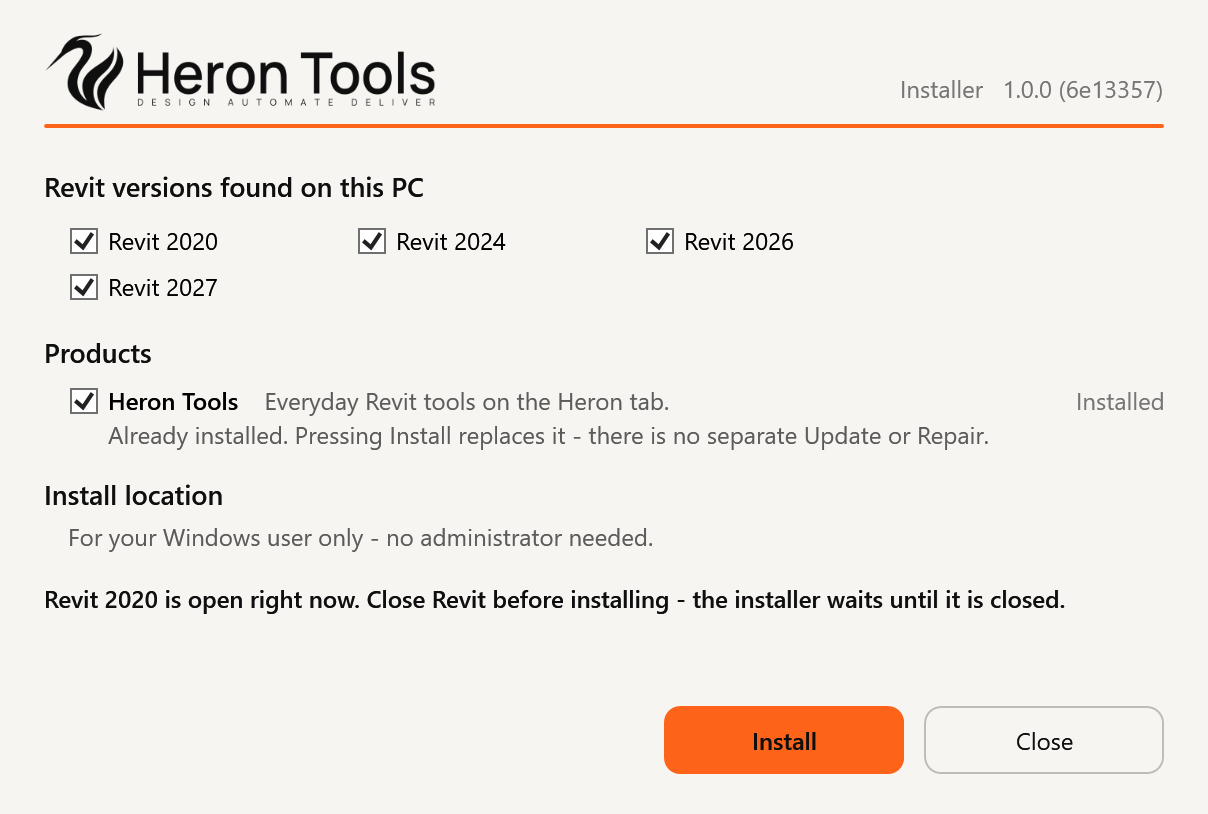
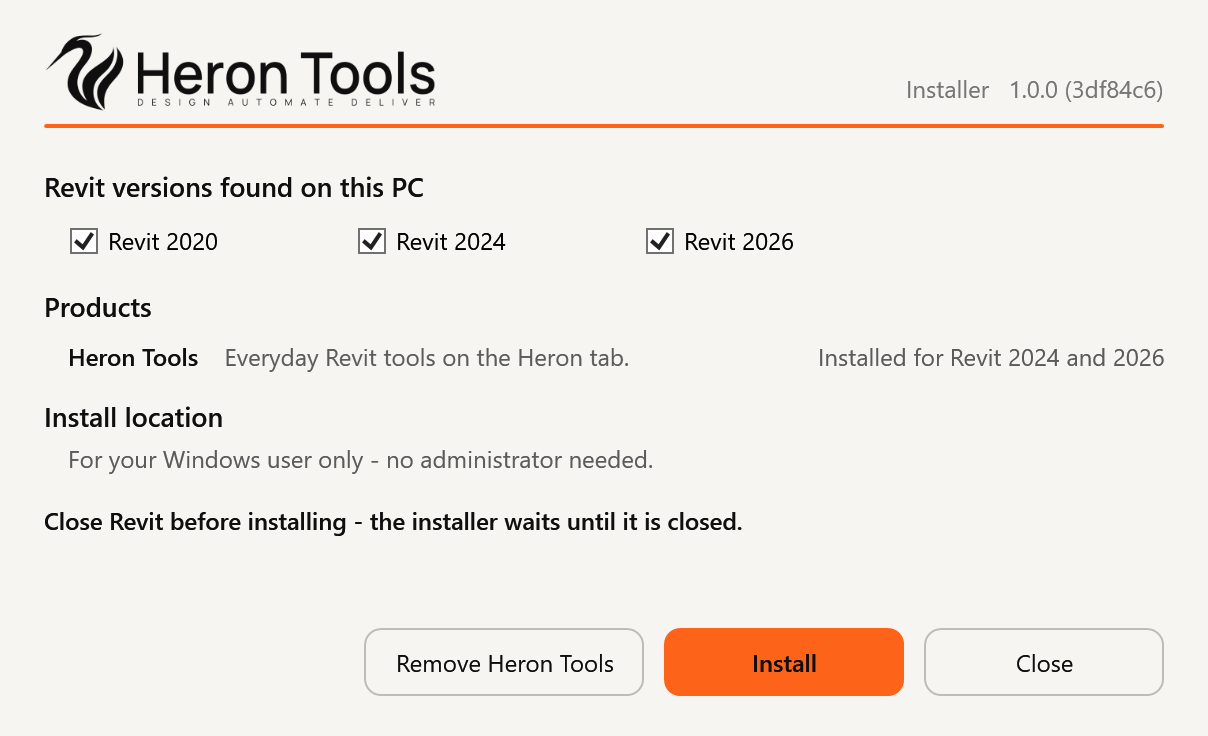
Installer like Heron AI's newest: no tick box, a Remove Heron Tools button
Heron AI's installer changed on 2026-11-08 (its pull request 821), half an
hour after this installer copied its look. With one product a tick box
offers no choice and one trap: unticking it turned Install into a removal.
Now, as there:
- Heron Tools is drawn as words only, no tick box; Install installs or
  replaces it in the ticked Revit versions and never removes anything.
- A quiet "Remove Heron Tools" button, drawn only while Heron Tools is on
  this PC, takes it out of every Revit it is in, after a Yes/No question
  with No picked first. One version only stays possible with
  /uninstall /years <year>.
- "Already installed - Install replaces it" moves to the hover; a version
  not installed shows a blank instead of "--".
Same look, colours, waiting for Revit and silent switches as before. No
Heron AI code was copied; it was read only.

Tested on test folders from PowerShell: window Remove -> No (nothing
changed), Remove -> Yes (removed from 2020, 2024 and 2026, button hides),
Install with nothing ticked, Install 2020 only, no pop-up after success;
/install, /uninstall /years, /status, an unknown switch. NOT RUN: waiting
while a real Revit is open, and an install on the owner's real Revit.

diff --git a/installer/HeronTools.Installer/InstallerWindow.cs b/installer/HeronTools.Installer/InstallerWindow.cs
@@ -5,16 +5,19 @@
 // Heron-Layer:  platform
 // See docs/metadata-standard.md
 
-// The installer window - one window, one list, two buttons - laid out like the Heron AI installer (no code
-// shared): the Heron Tools logo at the top with "Installer <version>" on the right, over a line of the
-// brand's orange; Mist for the page, Ink for the words; short labels; the orange Install and a quiet Close;
-// the heron as the window's icon.
+// The installer window - one window, one list - laid out like the Heron AI installer (no code shared): the
+// Heron Tools logo at the top with "Installer <version>" on the right, over a line of the brand's orange;
+// Mist for the page, Ink for the words; short labels; the orange Install, a quiet Close, and a quiet
+// Remove Heron Tools while it is installed; the heron as the window's icon.
 //
-// HOW IT WORKS, the Heron AI way:
-//   - "Revit versions found on this PC": tick the versions to work on (all found ones start ticked).
-//   - "Products": Heron Tools, with what is installed on the right. Ticked = install it (or replace it) in
-//     the ticked versions. Unticked while installed = REMOVE it from the ticked versions, after a yes.
-//   - Pressing Install while one of those Revit versions is open WAITS, says so, and carries on by itself
+// HOW IT WORKS, the Heron AI way (its installer since 2026-11-08, Heron AI pull request 821):
+//   - "Revit versions found on this PC": tick the versions to install into (all found ones start ticked).
+//   - "Products": Heron Tools and what is installed on the right - words only, NO tick box. With one
+//     product a box offers no choice and one trap: unticking it used to turn Install into a removal.
+//   - Install installs (or replaces) Heron Tools in the ticked versions. It never removes anything.
+//   - "Remove Heron Tools", quiet like Close and drawn only while Heron Tools is on this PC, takes it out of
+//     every Revit it is in, after a Yes/No question with No first.
+//   - Install or Remove while one of those Revit versions is open WAITS, says so, and carries on by itself
 //     once it is closed. It never closes Revit.
 // Every install decision is the engine's (InstallEngine); this window only draws and asks.
 
@@ -41,6 +44,7 @@ namespace HeronTools.Installer
         private static Color At(Color colour, byte alpha) => Color.FromArgb(alpha, colour.R, colour.G, colour.B);
 
         private const string CloseRevitFirst = "Close Revit before installing - the installer waits until it is closed.";
+        private const string Replaces = "Already installed. Pressing Install replaces it - there is no separate Update or Repair.";
 
         private readonly Payload _payload;
         private readonly InstallEngine _engine;
@@ -49,12 +53,12 @@ namespace HeronTools.Installer
 
         private readonly WrapPanel _releaseList = new WrapPanel { Margin = new Thickness(12, 4, 0, 0) };
         private readonly TextBlock _releaseNote;
-        private readonly CheckBox _productTick;
+        private readonly TextBlock _productWords;
         private readonly TextBlock _productState;
-        private readonly TextBlock _productNote;
         private readonly TextBlock _closeRevitFirst;
         private readonly TextBlock _report;
         private readonly Button _install;
+        private readonly Button _remove;
         private DispatcherTimer _waiting;
 
         public InstallerWindow(Payload payload, InstallEngine engine)
@@ -86,28 +90,24 @@ namespace HeronTools.Installer
             var product = new Grid { Margin = new Thickness(12, 4, 0, 0) };
             product.ColumnDefinitions.Add(new ColumnDefinition { Width = new GridLength(1, GridUnitType.Star) });
             product.ColumnDefinitions.Add(new ColumnDefinition { Width = GridLength.Auto });
-            var label = new TextBlock();
-            label.Inlines.Add(new System.Windows.Documents.Run("Heron Tools") { FontWeight = FontWeights.SemiBold });
-            label.Inlines.Add(new System.Windows.Documents.Run("    Everyday Revit tools on the Heron tab.")
+            // ONE PRODUCT, NO TICK BOX - the words alone; "Already installed..." is on hover, as in Heron AI.
+            _productWords = new TextBlock { TextWrapping = TextWrapping.Wrap, Margin = new Thickness(0, 1, 0, 1) };
+            _productWords.Inlines.Add(new System.Windows.Documents.Run("Heron Tools") { FontWeight = FontWeights.SemiBold });
+            _productWords.Inlines.Add(new System.Windows.Documents.Run("    Everyday Revit tools on the Heron tab.")
             {
                 Foreground = new SolidColorBrush(At(Ink, 0xAB)),
             });
-            _productTick = new CheckBox { Content = label, IsChecked = true, VerticalContentAlignment = VerticalAlignment.Center };
-            _productTick.Checked += (s, e) => DrawProduct();
-            _productTick.Unchecked += (s, e) => DrawProduct();
-            product.Children.Add(_productTick);
+            product.Children.Add(_productWords);
             _productState = new TextBlock
             {
-                Foreground = new SolidColorBrush(At(Ink, 0x8C)),
+                Foreground = new SolidColorBrush(At(Ink, 0xAB)),
                 VerticalAlignment = VerticalAlignment.Center,
+                HorizontalAlignment = HorizontalAlignment.Right,
                 Margin = new Thickness(12, 0, 0, 0),
             };
             Grid.SetColumn(_productState, 1);
             product.Children.Add(_productState);
             page.Children.Add(product);
-            _productNote = Quiet("");
-            _productNote.Margin = new Thickness(32, 1, 0, 1);
-            page.Children.Add(_productNote);
 
             // ONE LINE, with the folder on hover - short words, like the Heron AI installer.
             page.Children.Add(Heading("Install location"));
@@ -134,6 +134,20 @@ namespace HeronTools.Installer
             };
             _install.Click += (s, e) => StartInstall();
 
+            // REMOVE HERON TOOLS, quiet like Close - drawn only while Heron Tools is on this PC (DrawProduct).
+            _remove = new Button
+            {
+                Content = "Remove Heron Tools",
+                Width = 140,
+                Height = 34,
+                Margin = new Thickness(0, 0, 10, 0),
+                Foreground = new SolidColorBrush(Ink),
+                Cursor = Cursors.Hand,
+                ToolTip = "Takes Heron Tools out of every Revit on this PC. It asks first.",
+                Template = ButtonTemplate(Colors.Transparent, At(Ink, 0x0F), At(Ink, 0x40)),
+            };
+            _remove.Click += (s, e) => StartRemove();
+
             var close = new Button
             {
                 Content = "Close",
@@ -152,6 +166,7 @@ namespace HeronTools.Installer
                 HorizontalAlignment = HorizontalAlignment.Right,
                 Margin = new Thickness(0, 18, 0, 0),
             };
+            buttons.Children.Add(_remove);
             buttons.Children.Add(_install);
             buttons.Children.Add(close);
             page.Children.Add(buttons);
@@ -183,9 +198,7 @@ namespace HeronTools.Installer
                     VerticalContentAlignment = VerticalAlignment.Center,
                 };
                 if (!year.RevitInstalled)
-                    tick.ToolTip = $"Revit {year.Year} is not on this PC any more, but Heron Tools still is - untick Heron Tools to remove it.";
-                tick.Checked += (s, e) => DrawProduct();
-                tick.Unchecked += (s, e) => DrawProduct();
+                    tick.ToolTip = $"Revit {year.Year} is not on this PC any more, but Heron Tools still is - Remove Heron Tools takes it out.";
                 _releaseTicks[year.Year] = tick;
                 _releaseList.Children.Add(tick);
             }
@@ -202,33 +215,26 @@ namespace HeronTools.Installer
             DrawCloseRevitFirst();
         }
 
-        /// <summary>The product row: what is installed now (right), and what Install will do (under it).</summary>
+        /// <summary>The product row (what is installed now, on the right) and the buttons.</summary>
         private void DrawProduct()
         {
             List<YearState> installed = _years.Where(y => y.Installed != null).ToList();
-            List<int> chosen = Chosen();
 
             if (installed.Count == 0)
-                _productState.Text = "--";
+                _productState.Text = "";
             else if (_years.All(y => y.Installed != null))
                 _productState.Text = "Installed";
             else
                 _productState.Text = "Installed for Revit " + Join(installed.Select(y => y.Year));
 
-            bool ticked = _productTick.IsChecked == true;
-            List<int> removing = installed.Where(y => chosen.Contains(y.Year)).Select(y => y.Year).ToList();
-            if (ticked && installed.Any(y => chosen.Contains(y.Year)))
-                _productNote.Text = "Already installed. Pressing Install replaces it - there is no separate Update or Repair.";
-            else if (!ticked && removing.Count > 0)
-                _productNote.Text = "Unticked: pressing Install REMOVES it from Revit " + Join(removing) + ".";
-            else if (!ticked)
-                _productNote.Text = "Not ticked, so Install does nothing.";
-            else
-                _productNote.Text = "";
-            _productNote.Foreground = new SolidColorBrush(!ticked && removing.Count > 0 ? Accent : At(Ink, 0xAB));
-            _productNote.Visibility = _productNote.Text.Length == 0 ? Visibility.Collapsed : Visibility.Visible;
+            string hover = installed.Count > 0 ? Replaces : null;
+            _productWords.ToolTip = hover;
+            _productState.ToolTip = hover;
 
-            _install.IsEnabled = _payload != null && _years.Count > 0 && (_waiting == null || !_waiting.IsEnabled);
+            bool waiting = _waiting != null && _waiting.IsEnabled;
+            _install.IsEnabled = _payload != null && _years.Count > 0 && !waiting;
+            _remove.Visibility = installed.Count > 0 ? Visibility.Visible : Visibility.Collapsed;
+            _remove.IsEnabled = !waiting;
         }
 
         /// <summary>The bold line above the report, naming any Revit open right now.</summary>
@@ -252,54 +258,63 @@ namespace HeronTools.Installer
         {
             _waiting?.Stop();
             List<int> chosen = Chosen();
-            bool ticked = _productTick.IsChecked == true;
-            List<int> install = ticked ? chosen : new List<int>();
-            List<int> remove = ticked ? new List<int>() : _years.Where(y => y.Installed != null && chosen.Contains(y.Year)).Select(y => y.Year).ToList();
-
-            if (install.Count == 0 && remove.Count == 0)
+            if (chosen.Count == 0)
             {
-                _report.Text = chosen.Count == 0
-                    ? "No Revit version is ticked, so nothing was installed."
-                    : "Heron Tools is not ticked and not installed there, so there is nothing to do.";
+                _report.Text = "No Revit version is ticked, so there is nowhere to install to.";
+                return;
+            }
+            WaitThenRun(chosen, new List<int>(), chosen);
+        }
+
+        /// <summary>Remove Heron Tools: out of every Revit it is in, after a Yes/No question with No first.</summary>
+        private void StartRemove()
+        {
+            _waiting?.Stop();
+            List<int> remove = _years.Where(y => y.Installed != null).Select(y => y.Year).ToList();
+            if (remove.Count == 0)
+            {
+                _report.Text = "Heron Tools is not on this PC, so there is nothing to remove.";
                 return;
             }
 
-            if (remove.Count > 0)
+            MessageBoxResult answer = MessageBox.Show(this,
+                "This will REMOVE 'Heron Tools' from Revit " + Join(remove) + "." + Environment.NewLine + Environment.NewLine +
+                "Restart Revit afterwards to unload it." + Environment.NewLine + Environment.NewLine +
+                "Your models are not touched.",
+                "Heron Tools Installer", MessageBoxButton.YesNo, MessageBoxImage.Warning, MessageBoxResult.No);
+            if (answer != MessageBoxResult.Yes)
             {
-                MessageBoxResult answer = MessageBox.Show(this,
-                    "This will REMOVE 'Heron Tools' from Revit " + Join(remove) + "." + Environment.NewLine + Environment.NewLine +
-                    "Restart Revit afterwards to unload it." + Environment.NewLine + Environment.NewLine +
-                    "Your models are not touched, and the copy kept for going back stays.",
-                    "Heron Tools Installer", MessageBoxButton.OKCancel, MessageBoxImage.Question, MessageBoxResult.Cancel);
-                if (answer != MessageBoxResult.OK)
-                {
-                    _report.Text = "Nothing was removed.";
-                    return;
-                }
+                _report.Text = "Nothing was changed.";
+                return;
             }
 
-            // Wait - never work around it - while a Revit that is involved is open.
+            WaitThenRun(new List<int>(), remove, Chosen());
+        }
+
+        /// <summary>Runs now, or - never working around it - waits while a Revit that is involved is open.</summary>
+        private void WaitThenRun(List<int> install, List<int> remove, List<int> chosen)
+        {
             List<int> involved = install.Concat(remove).ToList();
             string blocking = Blocking(involved);
-            if (blocking != null)
+            if (blocking == null)
             {
-                _report.Text = blocking + " Close it and this will carry on by itself - nothing has been changed yet.";
-                _waiting = new DispatcherTimer { Interval = TimeSpan.FromSeconds(1.5) };
-                _waiting.Tick += (s, e) =>
-                {
-                    DrawCloseRevitFirst();
-                    if (Blocking(involved) == null)
-                    {
-                        _waiting.Stop();
-                        Run(install, remove, chosen);
-                    }
-                };
-                _waiting.Start();
-                DrawProduct();
+                Run(install, remove, chosen);
                 return;
             }
 
-            Run(install, remove, chosen);
+            _report.Text = blocking + " Close it and this will carry on by itself - nothing has been changed yet.";
+            _waiting = new DispatcherTimer { Interval = TimeSpan.FromSeconds(1.5) };
+            _waiting.Tick += (s, e) =>
+            {
+                DrawCloseRevitFirst();
+                if (Blocking(involved) == null)
+                {
+                    _waiting.Stop();
+                    Run(install, remove, chosen);
+                }
+            };
+            _waiting.Start();
+            DrawProduct();
         }
 
         /// <summary>Which open Revit stops this run, said in a sentence; null when none does.</summary>
@@ -315,6 +330,7 @@ namespace HeronTools.Installer
         private void Run(List<int> install, List<int> remove, List<int> chosen)
         {
             _install.IsEnabled = false;
+            _remove.IsEnabled = false;
             Cursor = Cursors.Wait;
             var lines = new List<string>();
             try
@@ -324,8 +340,8 @@ namespace HeronTools.Installer
                 foreach (int year in remove)
                     lines.Add(_engine.Remove(year).Message);
                 if (remove.Count > 0)
-                    lines.Add("Restart Revit so the removed product stops loading.");
-                foreach (YearState year in _years.Where(y => y.RevitInstalled && !chosen.Contains(y.Year)))
+                    lines.Add("Restart Revit so Heron Tools stops loading.");
+                foreach (YearState year in _years.Where(y => install.Count > 0 && y.RevitInstalled && !chosen.Contains(y.Year)))
                     lines.Add($"Revit {year.Year} is on this PC but was not ticked, so nothing was installed for it. Run this again and tick it if that was not meant.");
             }
             catch (Exception ex)

diff --git a/CHANGELOG.md b/CHANGELOG.md
@@ -41,8 +41,11 @@ All notable changes to Heron Tools. Dates are yyyy-mm-dd.
   the Heron AI installer's safeguards: DLL .NET check per year, deps.json check, ManifestSettings check,
   open/unknown Revit refusal, kept previous install with `-Rollback`, byte-for-byte check.
 - **`HeronToolsInstaller.exe`** - one-file setup window in the Heron AI installer's look: finds Revit 2020-2027,
-  installs, replaces or removes Heron Tools per version, waits while Revit is open, keeps the replaced
-  install, checks every file; `/install`, `/uninstall`, `/status` without a window. Made by
+  installs or replaces Heron Tools in the ticked versions, waits while Revit is open, keeps the replaced
+  install, checks every file; `/install`, `/uninstall`, `/status` without a window. Like the Heron AI
+  installer since 2026-11-08: no tick box on the one product, so Install never removes, and a quiet
+  **Remove Heron Tools** button (shown only while it is installed) takes it out of every Revit after a
+  Yes/No question with No first. Made by
   `build/build-installer.ps1`, and by the Gates check on every change.
 - A **Release** workflow (`.github/workflows/release.yml`): a version tag builds every Revit year, checks the tag
   matches the built version, and makes a draft GitHub release with `HeronToolsInstaller.exe` attached.

diff --git a/README.md b/README.md
@@ -94,8 +94,10 @@ Tools into the ones you tick, for your Windows user only - no administrator need
   <img src="docs/installer/installer-window.png" alt="The Heron Tools installer window" width="560">
 </p>
 
-- **Install** puts Heron Tools in (or replaces it - there is no separate Update or Repair).
-- **Untick Heron Tools** and press Install to **remove** it from the ticked versions (it asks first).
+- **Install** puts Heron Tools in the ticked versions (or replaces it - there is no separate Update or
+  Repair). It never removes anything.
+- **Remove Heron Tools** (shown only while it is installed) takes it out of every Revit it is in. It asks
+  first, with No already picked. To take it out of one version only: `/uninstall /years 2024` (below).
 - If one of those Revit versions is open, it **waits** and says so, and carries on by itself once Revit is
   closed. It never closes Revit.
 - It keeps the install it replaces (`%LocalAppData%\HeronTools\install-backup\<year>`), puts it back by
